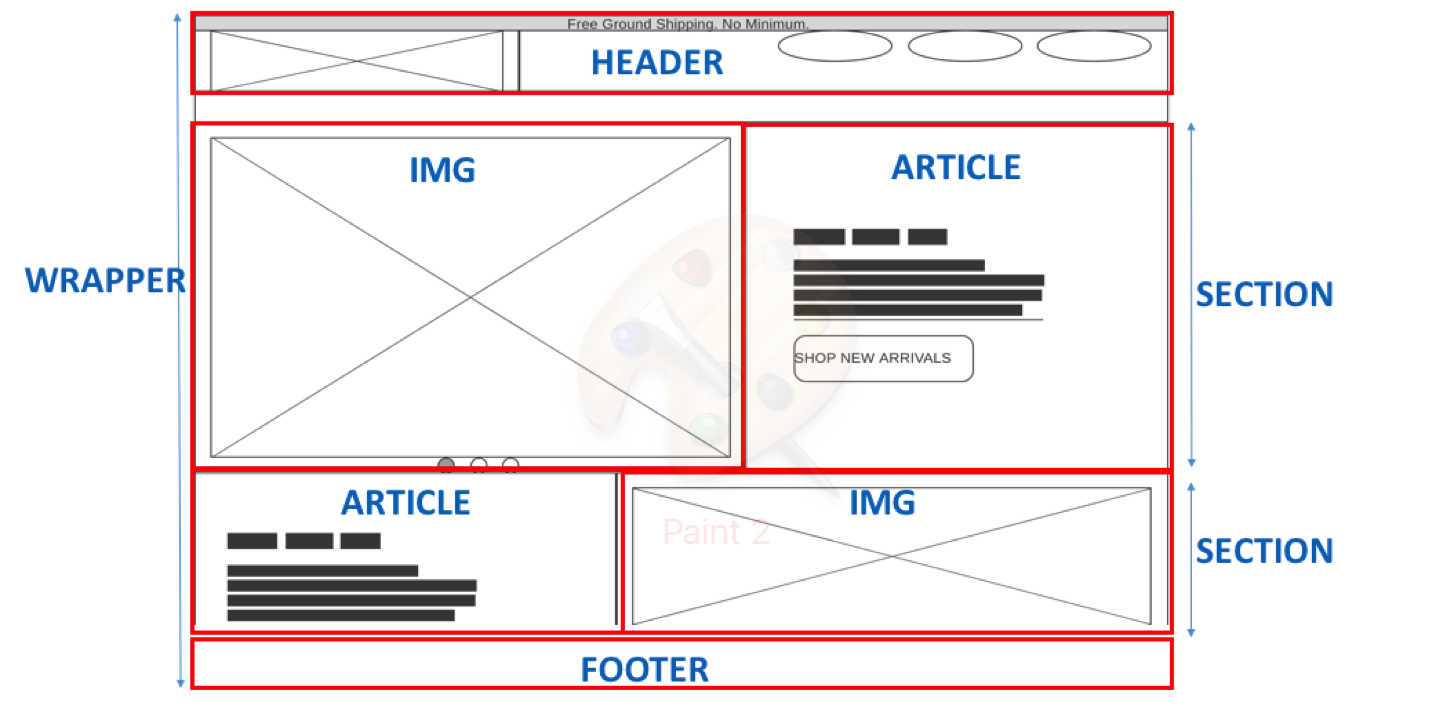
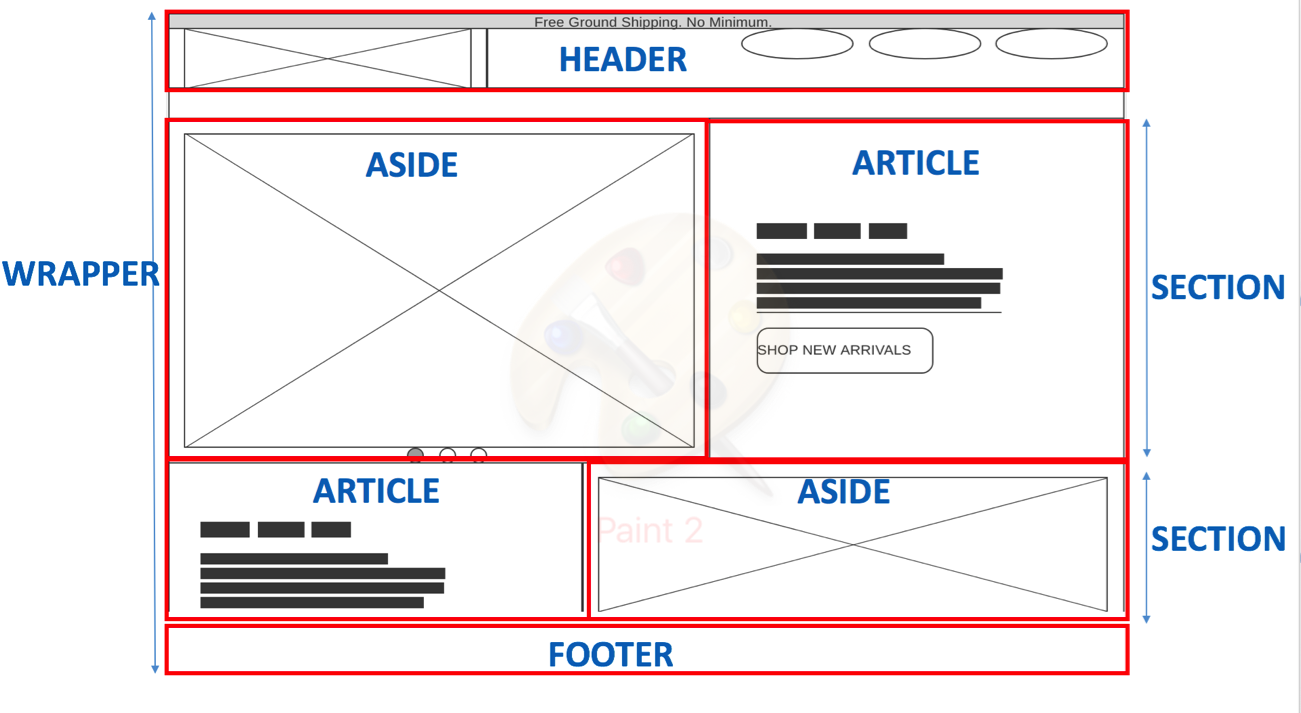
semantics

diff --git a/unit_5/index.html b/unit_5/index.html
@@ -5,23 +5,44 @@
 	<title>Selina's Pressed Leaf Artwork</title>
 </head>
 <body>
+	<div class="wrapper">
+	<header>
 	<h1>Forever Leaves</h1>
 	<p id="slogan"> dry leaves - once you have it, you love it </p>
 	<p id="links">about us&nbsp; order status &nbsp; shopping cart &nbsp;<br></p>
-	<center>
-		<img src="images/kids-pressed-leaves-art.jpg" alt="single leaves pressed between clear plastic" title="pressed leaves artwork">
-		<img src="images/Leaves-pressed-between-clear-plastic.jpg" alt="single leaves pressed between clear plastic" title="pressed leaves artwork">
-	</center>
-	<p id="inspiration">Our Inspiration...</p>
-	<p class="blurb">This is inspired by my grandpa, who loves to plant in the backyard of his house. Every summer, he would grow different types of vegetables: tomatoes, bitter melon, pumpkin, etc. As autumn arrives, the leaves of the plants crumble. </p>
-	<p id="newarrivals"> shop new arrivals ></p>
-	<p class="blurb">Get your own! We offer frames designed with different style leaves:
-		<ul> 
-			<li> Natural colorful leaves</li>
-			<li> Metallic spray painted leaves</li>
-			<li> Leaf garlands</li>
-		</ul>
+	</header>
+		<center>
+	<section id="one">
+		<aside class="picture">
+			<img src="images/kids-pressed-leaves-art.jpg" alt="single leaves pressed between clear plastic" title="pressed leaves artwork">
+		</aside>
+		<article class="description">
+		</center>
+			<p id="inspiration">Our Inspiration...</p>
+			<p class="blurb">This is inspired by my grandpa, who loves to plant in the backyard of his house. Every summer, he would grow different types of vegetables: tomatoes, bitter melon, pumpkin, etc. As autumn arrives, the leaves of the plants crumble. </p>
+			<p id="newarrivals"> shop new arrivals ></p>
+		</article>
+		</section>
+	<section id="two">
+		<article class="description">
+			<p class="blurb">Get your own! We offer frames designed with different style leaves:
+			<ul> 
+				<li> Natural colorful leaves</li>
+				<li> Metallic spray painted leaves</li>
+				<li> Leaf garlands</li>
+			</ul>
+			</p>
+		</article>
+		<center>
+		<aside class="picture">
+			<img src="images/Leaves-pressed-between-clear-plastic.jpg" alt="single leaves pressed between clear plastic" title="pressed leaves artwork">
+		</aside>
+		</center>
+	</section>
 	<hr>
+	<footer>
 	<p id="questions">Questions? Email me <a href="mailto:selinali32@gmail.com">here!</a></p>
+	</footer>
+	</div>
 </body>
 </html>
